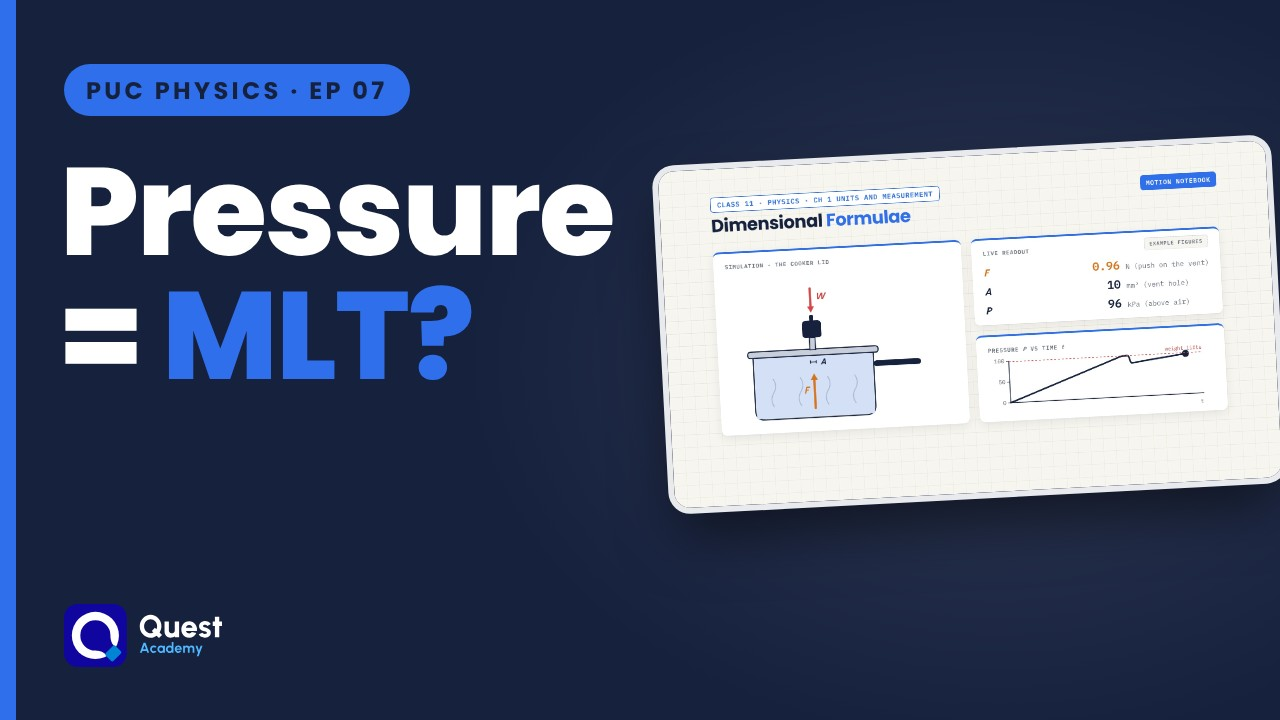
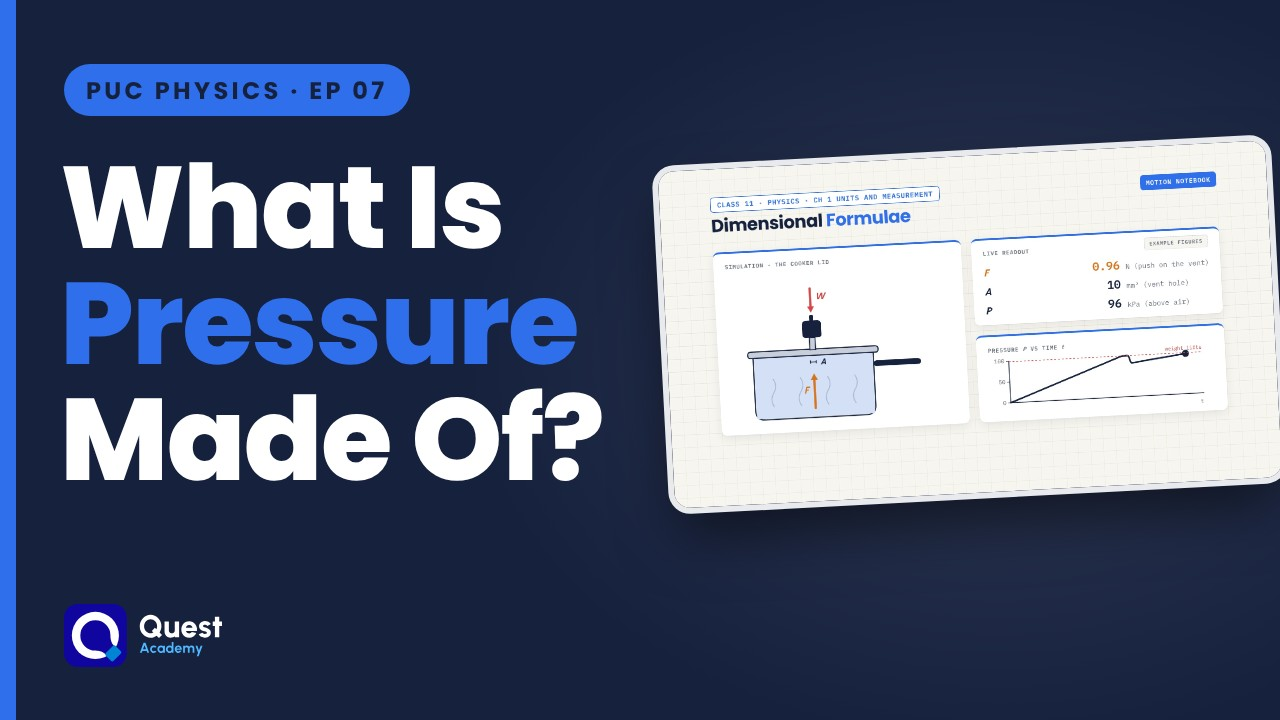
PUC Physics Ep 7 reviewed and ready (statement inside safe area, clearer thumbnail)
Claude-Session: https://claude.ai/code/session_01A9Yf9Ux47ei315g5AMbUHs

Changed region(s): [[0.0312, 0.2139, 0.5, 0.6722]]

diff --git a/videos/puc-physics-dimensional-formulae/index.html b/videos/puc-physics-dimensional-formulae/index.html
@@ -67,6 +67,7 @@
 .yr{position:absolute;left:48px;width:1504px;height:96px;border-radius:14px;background:var(--soft)}
 .yr .n{position:absolute;left:24px;top:24px;width:48px;height:48px;border-radius:50%;background:var(--ac);color:#fff;font:700 24px Poppins;display:flex;align-items:center;justify-content:center}
 .yr .q{position:absolute;left:96px;top:26px;font:600 34px Poppins;white-space:nowrap}
+#st2{font-size:68px}
 </style></head><body>
 <div id="stage">
   <div id="cam">
